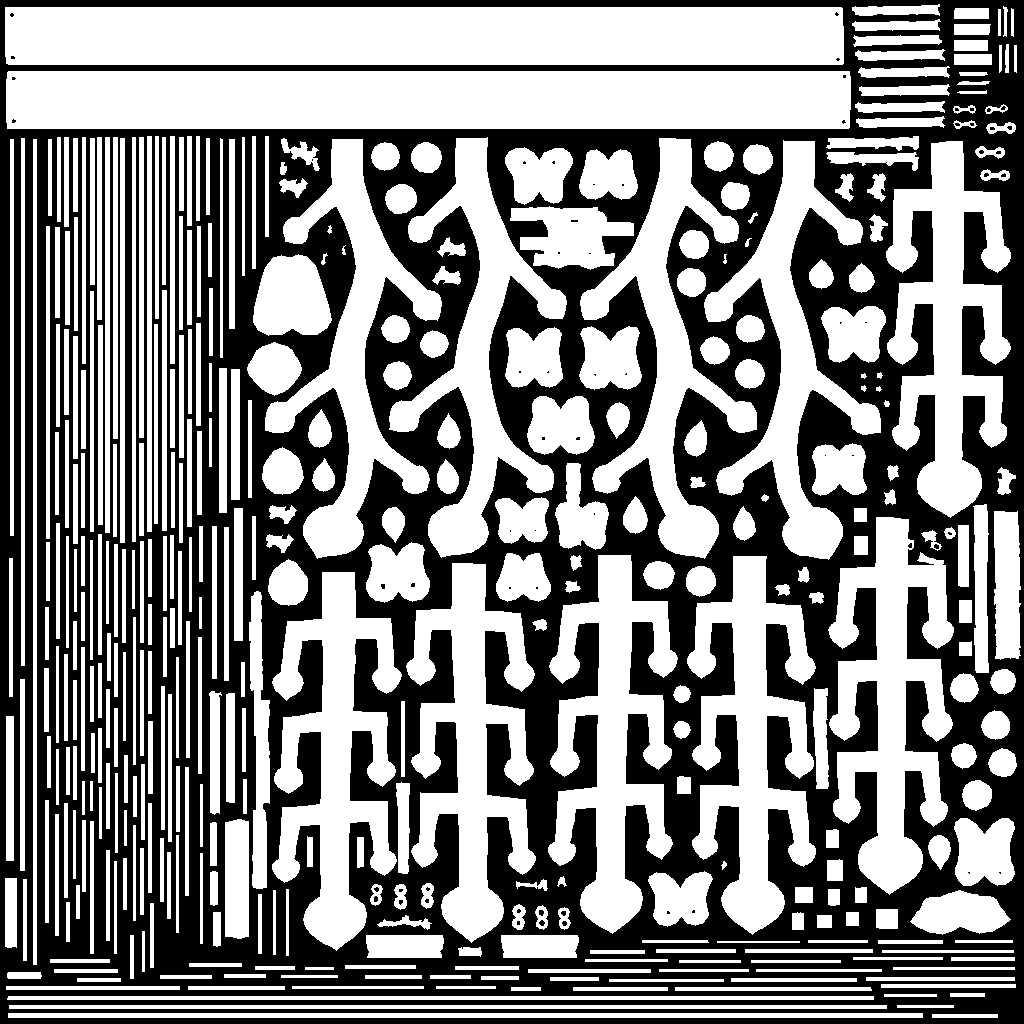
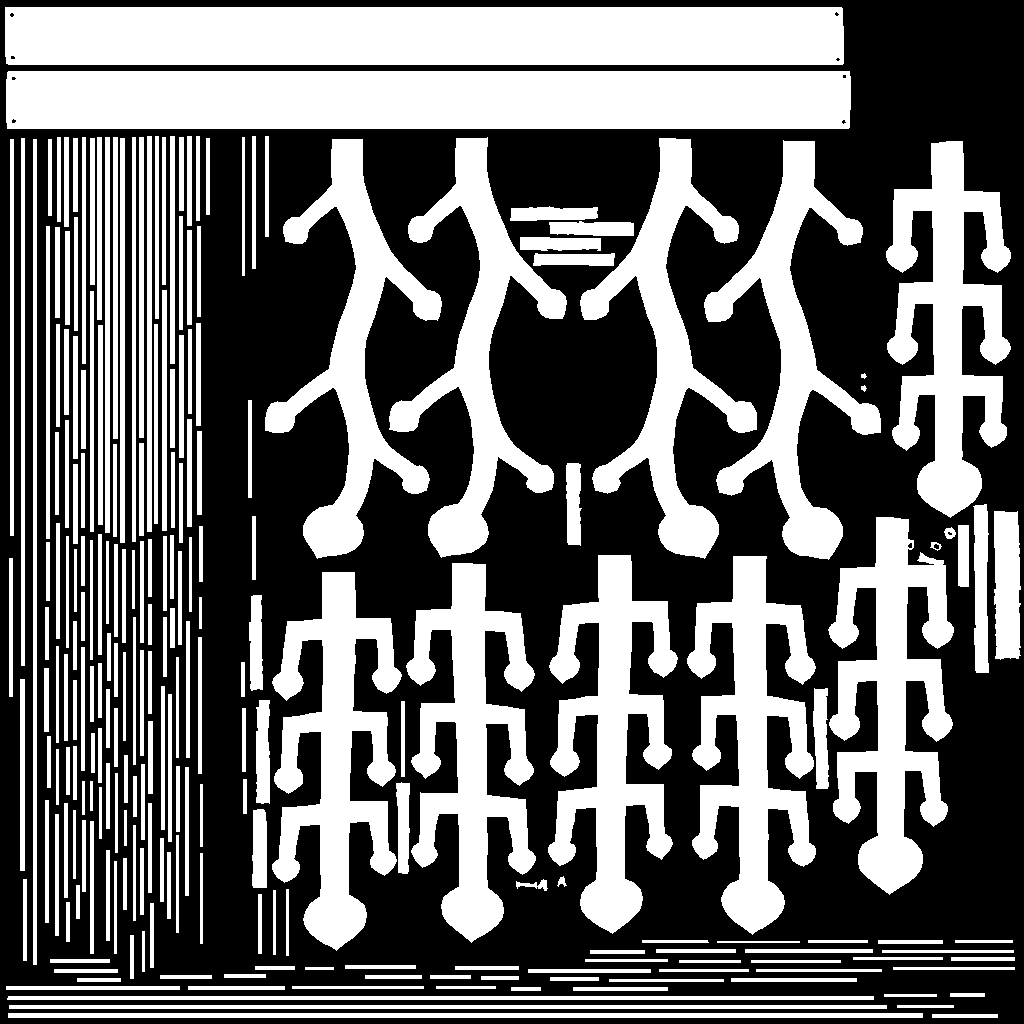
금관 조립 수정 + 개토우 추가 + 노멀 없는 메시 대응
- 금관: Cage에 드리개(곱은옥) beads가 옆으로 펼쳐진 채라 밀려 보였음 → 본체(테+세움장식+드리개) 7파트만 남기고 재조립, 단일메시화
- 개토우: UV·정점색 없는 스캔 → 구면 UV 부여 + 테라코타 점토 재질로 처리
- loadArtifact: 노멀 없는 메시는 computeVertexNormals()로 보정(재구성 GLB 검게 나오던 문제 해결)
- 재구성 GLB에 노멀 포함 내보내기, AO 재생성

Claude-Session: https://claude.ai/code/session_01NrZpxSDQvoHfLzfXEDZ2k6

diff --git a/index.html b/index.html
@@ -810,6 +810,7 @@ function loadArtifact(id, cb){
   new THREE.GLTFLoader().load(a.assets.glb, (gltf)=>{
     const obj=gltf.scene; const meshes=[]; obj.traverse(o=>{ if(o.isMesh) meshes.push(o); });
     if(!meshes.length){ cb(null); return; }
+    meshes.forEach(m=>{ if(!m.geometry.attributes.normal) m.geometry.computeVertexNormals(); });  // 노멀 없는 메시(재구성 GLB 등) 대비
     const fit=a.fit||{}; obj.rotation.x=fit.rx||0;
     const box=new THREE.Box3().setFromObject(obj);
     const size=box.getSize(new THREE.Vector3()), ctr=box.getCenter(new THREE.Vector3());
@@ -954,6 +955,10 @@ const ARTIFACTS=[
    blurb:'경주 월정교를 지키던 돌사자. 둥근 얼굴과 다부진 몸집에 신라 석공의 익살과 솜씨가 함께 담겨 있습니다.',
    assets:{glb:'lion2.glb', c:'tex13/lion2_C.png', m:'tex13/lion2_M.png', n:'tex13/lion2_N.png', r:'tex13/lion2_R.png', ao:'tex13/lion2_ao.png'},
    fit:{h:2.2,y:0.04,rx:0}},
+  {id:'dog', playable:true, name:'개모양 토우', era:'신라', material:'도기(土偶)', desig:'유물', source:SRC, short:'흙으로 빚은 신라의 개 토우. 소박한 손길이 정겹다.',
+   blurb:'흙을 손으로 빚어 구운 신라의 개 모양 토우(土偶). 꾸밈없는 형태에 신라 사람들의 일상과 정서가 소박하게 담겨 있습니다.',
+   assets:{glb:'dog.glb', c:'tex14/dog_C.png', m:'tex14/dog_M.png', n:'tex14/dog_N.png', r:'tex14/dog_R.png', ao:'tex14/dog_ao.png'},
+   fit:{h:2.0,y:0.05,rx:0}},
   {id:'jade', playable:false, name:'경옥제 향로', era:'신라', material:'경옥(硬玉)', desig:'유물', source:SRC, short:'단단한 옥을 깎아 만든 세 다리 향로.',
    blurb:'단단한 옥돌을 깎아 만든 향로. 둥근 몸통과 세 다리, 귀 손잡이, 보주형 꼭지를 갖춘 형태에 옥을 다루는 신라 장인의 솜씨가 담겼습니다.',
    assets:{glb:'art6.glb', c:'tex6/jade_C.png', m:'tex6/jade_M.png', r:'tex6/jade_R.png', n:'tex6/jade_N.png', ao:'tex6/art6_ao.png'},